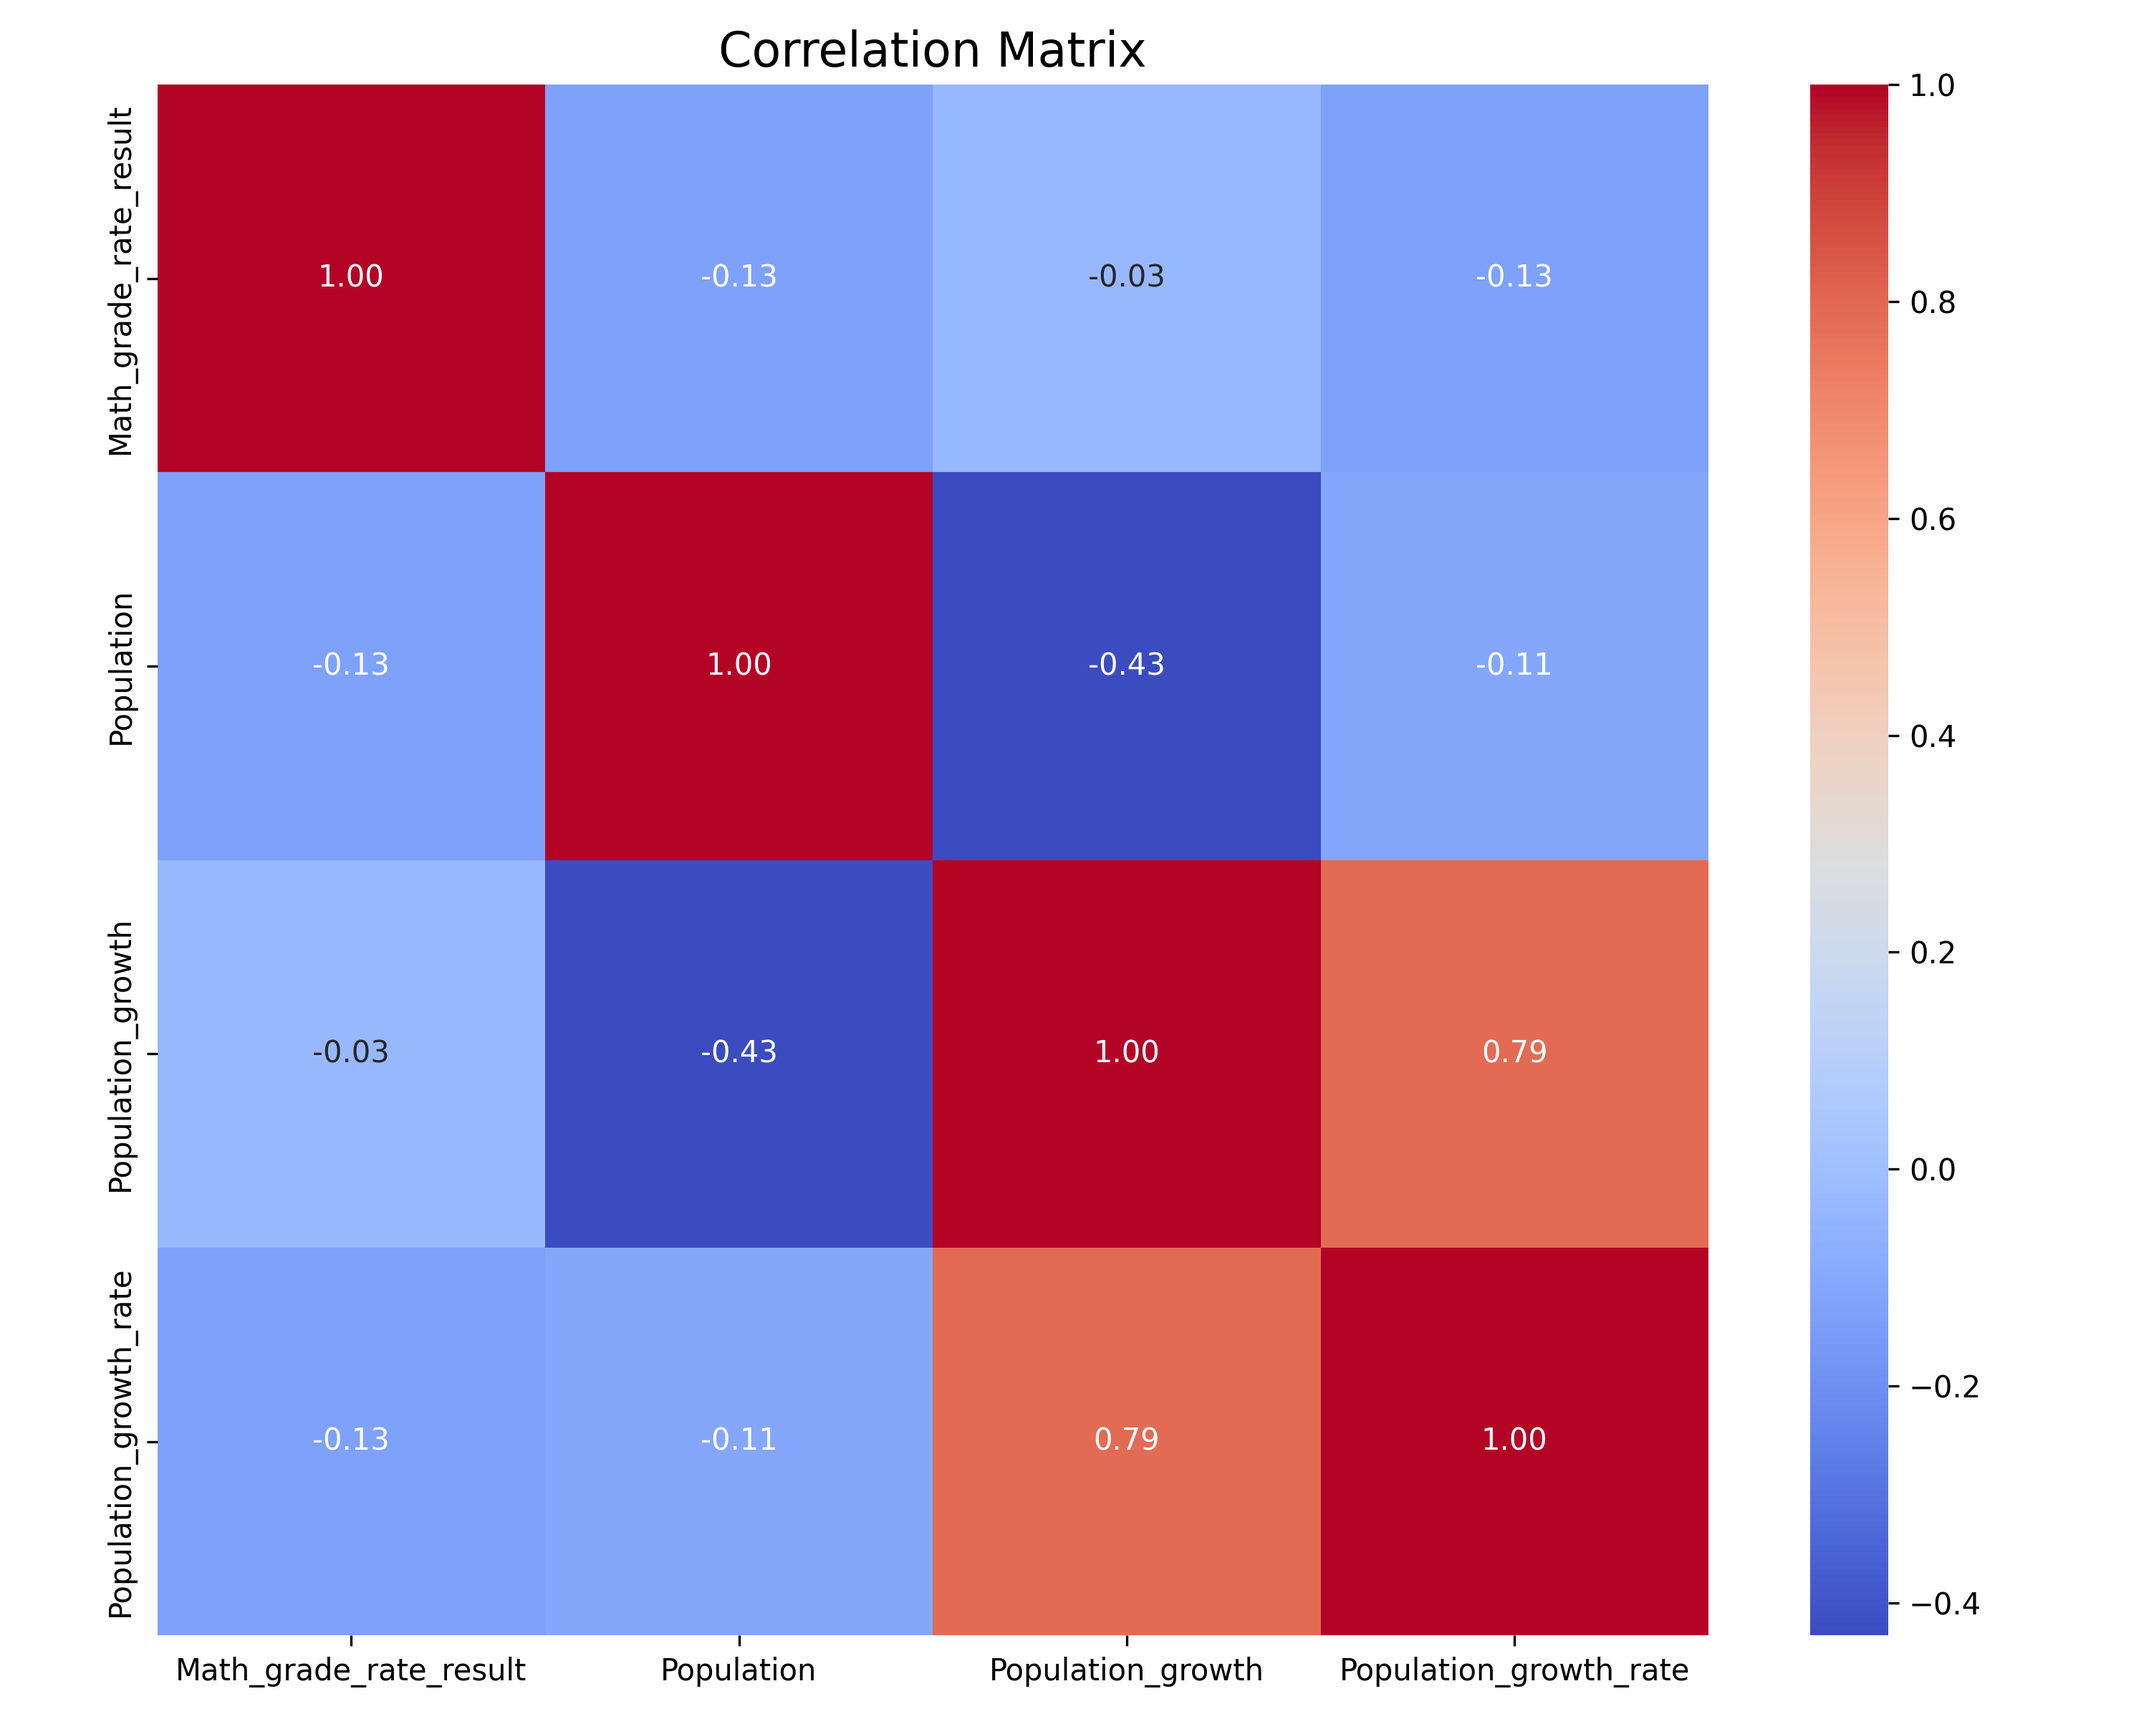
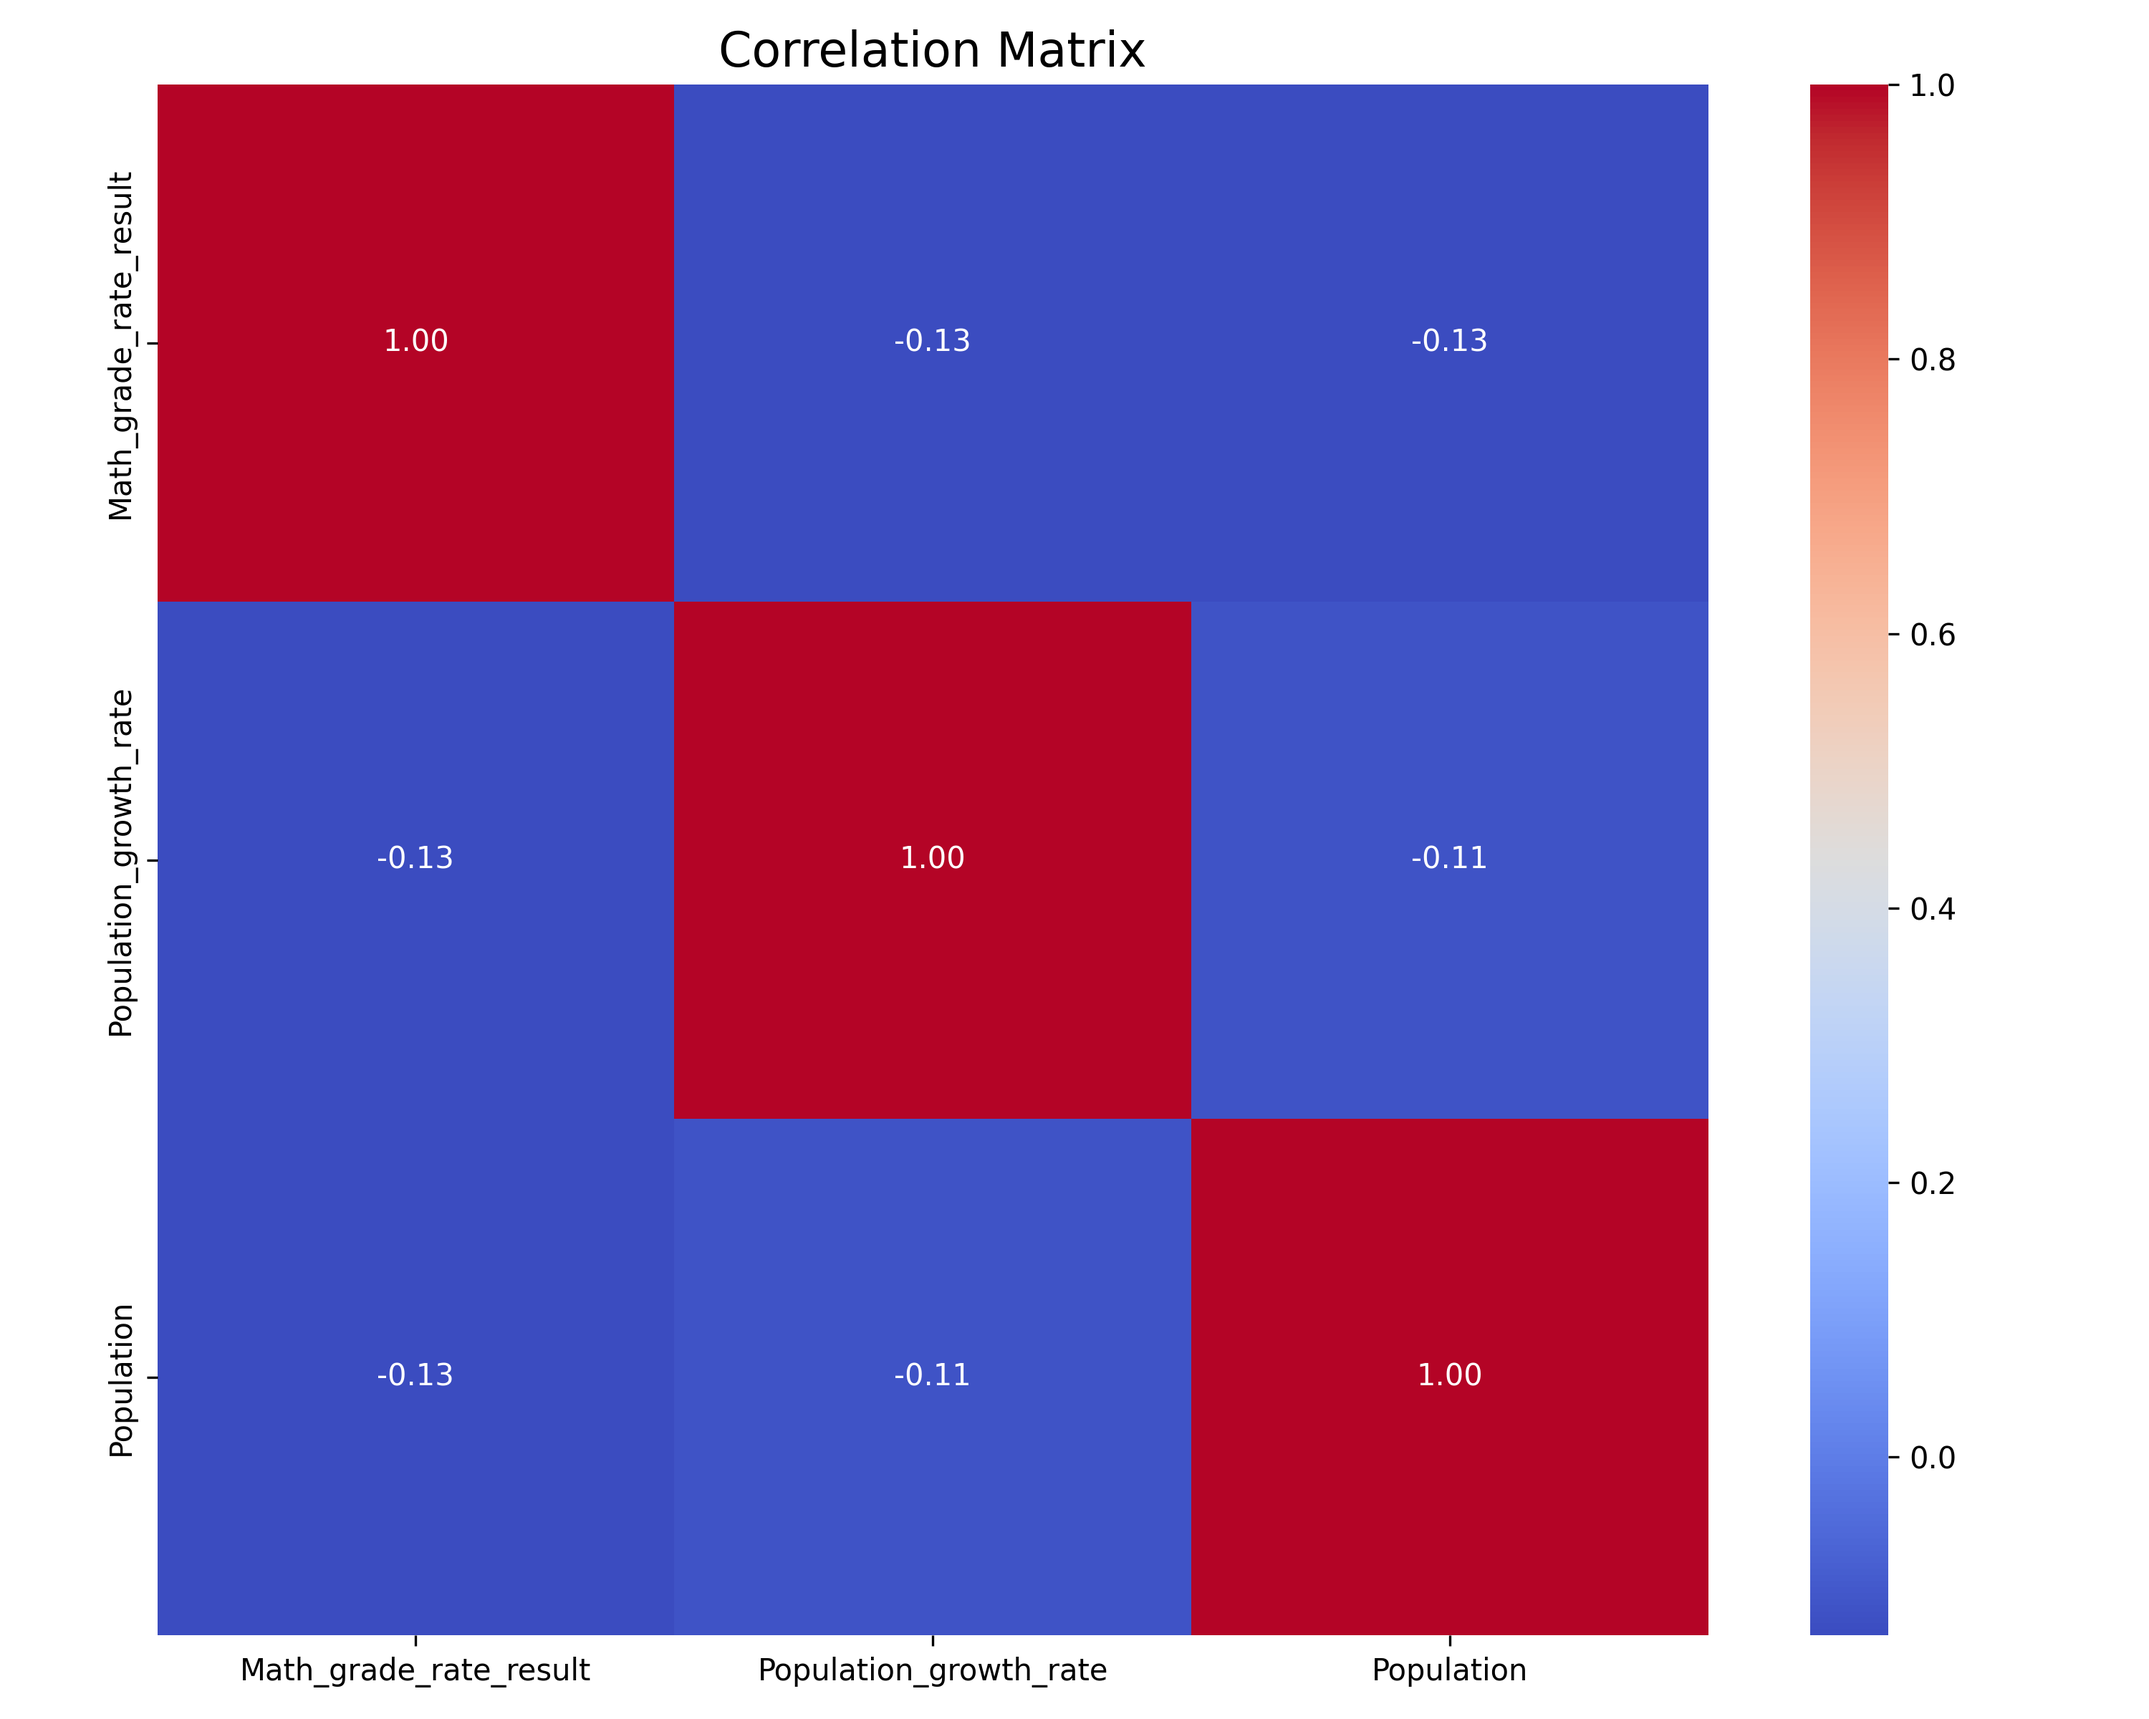
checking corr

diff --git a/main.py b/main.py
@@ -9,6 +9,7 @@ import statsmodels.api as sm
 from statsmodels.stats.outliers_influence import variance_inflation_factor
 import matplotlib.pyplot as plt
 import seaborn
+import numpy as np
 
 def Merge_data(folder_path,file_name):
     file_path = 'data/Dalarna_MunicipalElectionResults.xlsx'  
@@ -51,15 +52,13 @@ def check_data_VIF(df):
 
 
 def show_correlation_matrix(df, image_path):
-    corr = df.corr().round(2)
-    print(corr)
     plt.figure(figsize=(10, 8))
+    corr = df.corr().round(2)
     seaborn.heatmap(corr, annot=True, cmap="coolwarm", fmt=".2f", square=True)
     plt.title("Correlation Matrix", fontsize=16)
     plt.tight_layout()
     plt.savefig(image_path, dpi=300)
     plt.close()
-    return corr
 
 def math_grade_rate_plot(df):
     graph = seaborn.FacetGrid(df, col="Municipality", hue="Municipality", col_wrap=2, height=4, aspect=1.5)
@@ -72,10 +71,23 @@ def show_correlation_pair_plot(df, image_path):
     plt.suptitle("Pairwise Relationships with Regression Diagnostics", y=1.02)
     plt.savefig(image_path, dpi=300)
     plt.close()
+    
+    
+def drop_highly_correlated_features(df, threshold=0.7):
+    corr = df.corr().round(2).abs()
+    dropped = set()
+    for i in corr.columns:
+        for j in corr.columns:
+            if(len(dropped)>len(corr.columns)-3):
+                break
+            if i!="Math_grade_rate_result" and j!="Math_grade_rate_result" and  i != j and corr.loc[i, j] > threshold:
+                dropped.add(j)
+    return df.drop(columns=dropped), list(dropped)
+
 def features_correlation_checking(df):
-    income_vars = ["Math_grade_rate_result", "Average_income", "Income_inequality", "Median_income"]
-    pop_vars = ["Math_grade_rate_result", "Population", "Population_growth", "Population_growth_rate"]
-    edu_vars = ["Math_grade_rate_result", "Higher_education_count","Lower_education_count", "Lower_education_percentage", "Higher_education_percentage","Higher_to_lower_education_ratio"]
+    income_vars = ["Math_grade_rate_result", "Average_income", "Income_inequality"]
+    pop_vars = ["Math_grade_rate_result","Population_growth_rate", "Population"]
+    edu_vars = ["Math_grade_rate_result", "Higher_education_percentage", "Lower_education_percentage", "Higher_to_lower_education_ratio"]
 
     show_correlation_matrix(df[income_vars], "data/correlation_matrix_income.png")
     show_correlation_pair_plot(df[income_vars], "data/correlation_plot_income.png")
@@ -83,33 +95,21 @@ def features_correlation_checking(df):
     show_correlation_matrix(df[pop_vars], "data/correlation_matrix_population.png")
     show_correlation_pair_plot(df[pop_vars], "data/correlation_plot_population.png")
     
-    show_correlation_matrix(df[edu_vars], "data/correlation_plot_education.png")
+    show_correlation_matrix(df[edu_vars], "data/correlation_matrix_education.png")
     show_correlation_pair_plot(df[edu_vars], "data/correlation_plot_education.png")
     
-    selected_features=["Year","Municipality",
-            "Math_grade_rate_result",
-            "Average_income",
-            "Population",
-            "Population_growth_rate",
-            "Higher_education_percentage",
-            "The Centre Party","The Christian Democratic Party",
-            "The Green Party", "The Left Party",	
-            "The Liberal Party","The Moderate Party",
-            "The Social Democratic Party","The Sweden Democrats"
-            ]
+    income_df, income_dropped = drop_highly_correlated_features(df[income_vars])
+    pop_df, pop_dropped = drop_highly_correlated_features(df[pop_vars])
+    edu_df, edu_dropped = drop_highly_correlated_features(df[edu_vars])
+    selected_features=[col for col in  df.columns if col not in income_dropped and col not in pop_dropped and col not in edu_dropped ]
     return selected_features
 
 def main():
     df=Merge_data('data/','merged_data.csv')
-
     math_grade_rate_plot(df)
-    features_correlation_checking(df)
-    
-    
-    dummy_df = pd.get_dummies(df, columns=['Municipality','Year'], drop_first=True)
-    
-    
-    
+    selected_features=features_correlation_checking(df)
+    not_correlated_df=df[selected_features]
+    dummy_df= pd.get_dummies(not_correlated_df, columns=['Municipality','Year'], drop_first=True)
     #check_data_VIF(dummy_df) 
 
 

diff --git a/feature_engineering/education_level/EducationFeatures.py b/feature_engineering/education_level/EducationFeatures.py
@@ -50,9 +50,6 @@ class EducationFeatures:
         return {
             "Year":self.__year,
             "Municipality":self.__municipality,
-            "Lower_education_count":self.__lower_education_count,
-            "Higher_education_count":self.__higher_education_count,
-            "Total_population":self.__total_population,
             "Lower_education_percentage":self.__lower_education_percentage,
             "Higher_education_percentage":self.__higher_education_percentage,
             "Higher_to_lower_education_ratio":self.__higher_to_lower_education_ratio

diff --git a/feature_engineering/demographic/DemographicFeatures.py b/feature_engineering/demographic/DemographicFeatures.py
@@ -42,7 +42,5 @@ class DemographicFeatures:
             'Year': self.__year,
             'Municipality': self.__municipality,
             'Population': self.__population,
-            'Previous_population': self.__previous_population,
-            'Population_growth_rate': self.__population_growth_rate,
-            'Population_growth': self.__population_growth
+            'Population_growth_rate': self.__population_growth_rate
         }

diff --git a/feature_engineering/economic/EconomicFeatures.py b/feature_engineering/economic/EconomicFeatures.py
@@ -23,6 +23,5 @@ class EconomicFeatures:
             'Year': self.__year,
             'Municipality': self.__municipality,
             'Average_income': self.__average_income,
-            'Income_inequality': self.__income_inequality,
-            'Median_income': self.__median_income
+            'Income_inequality': self.__income_inequality
         }
